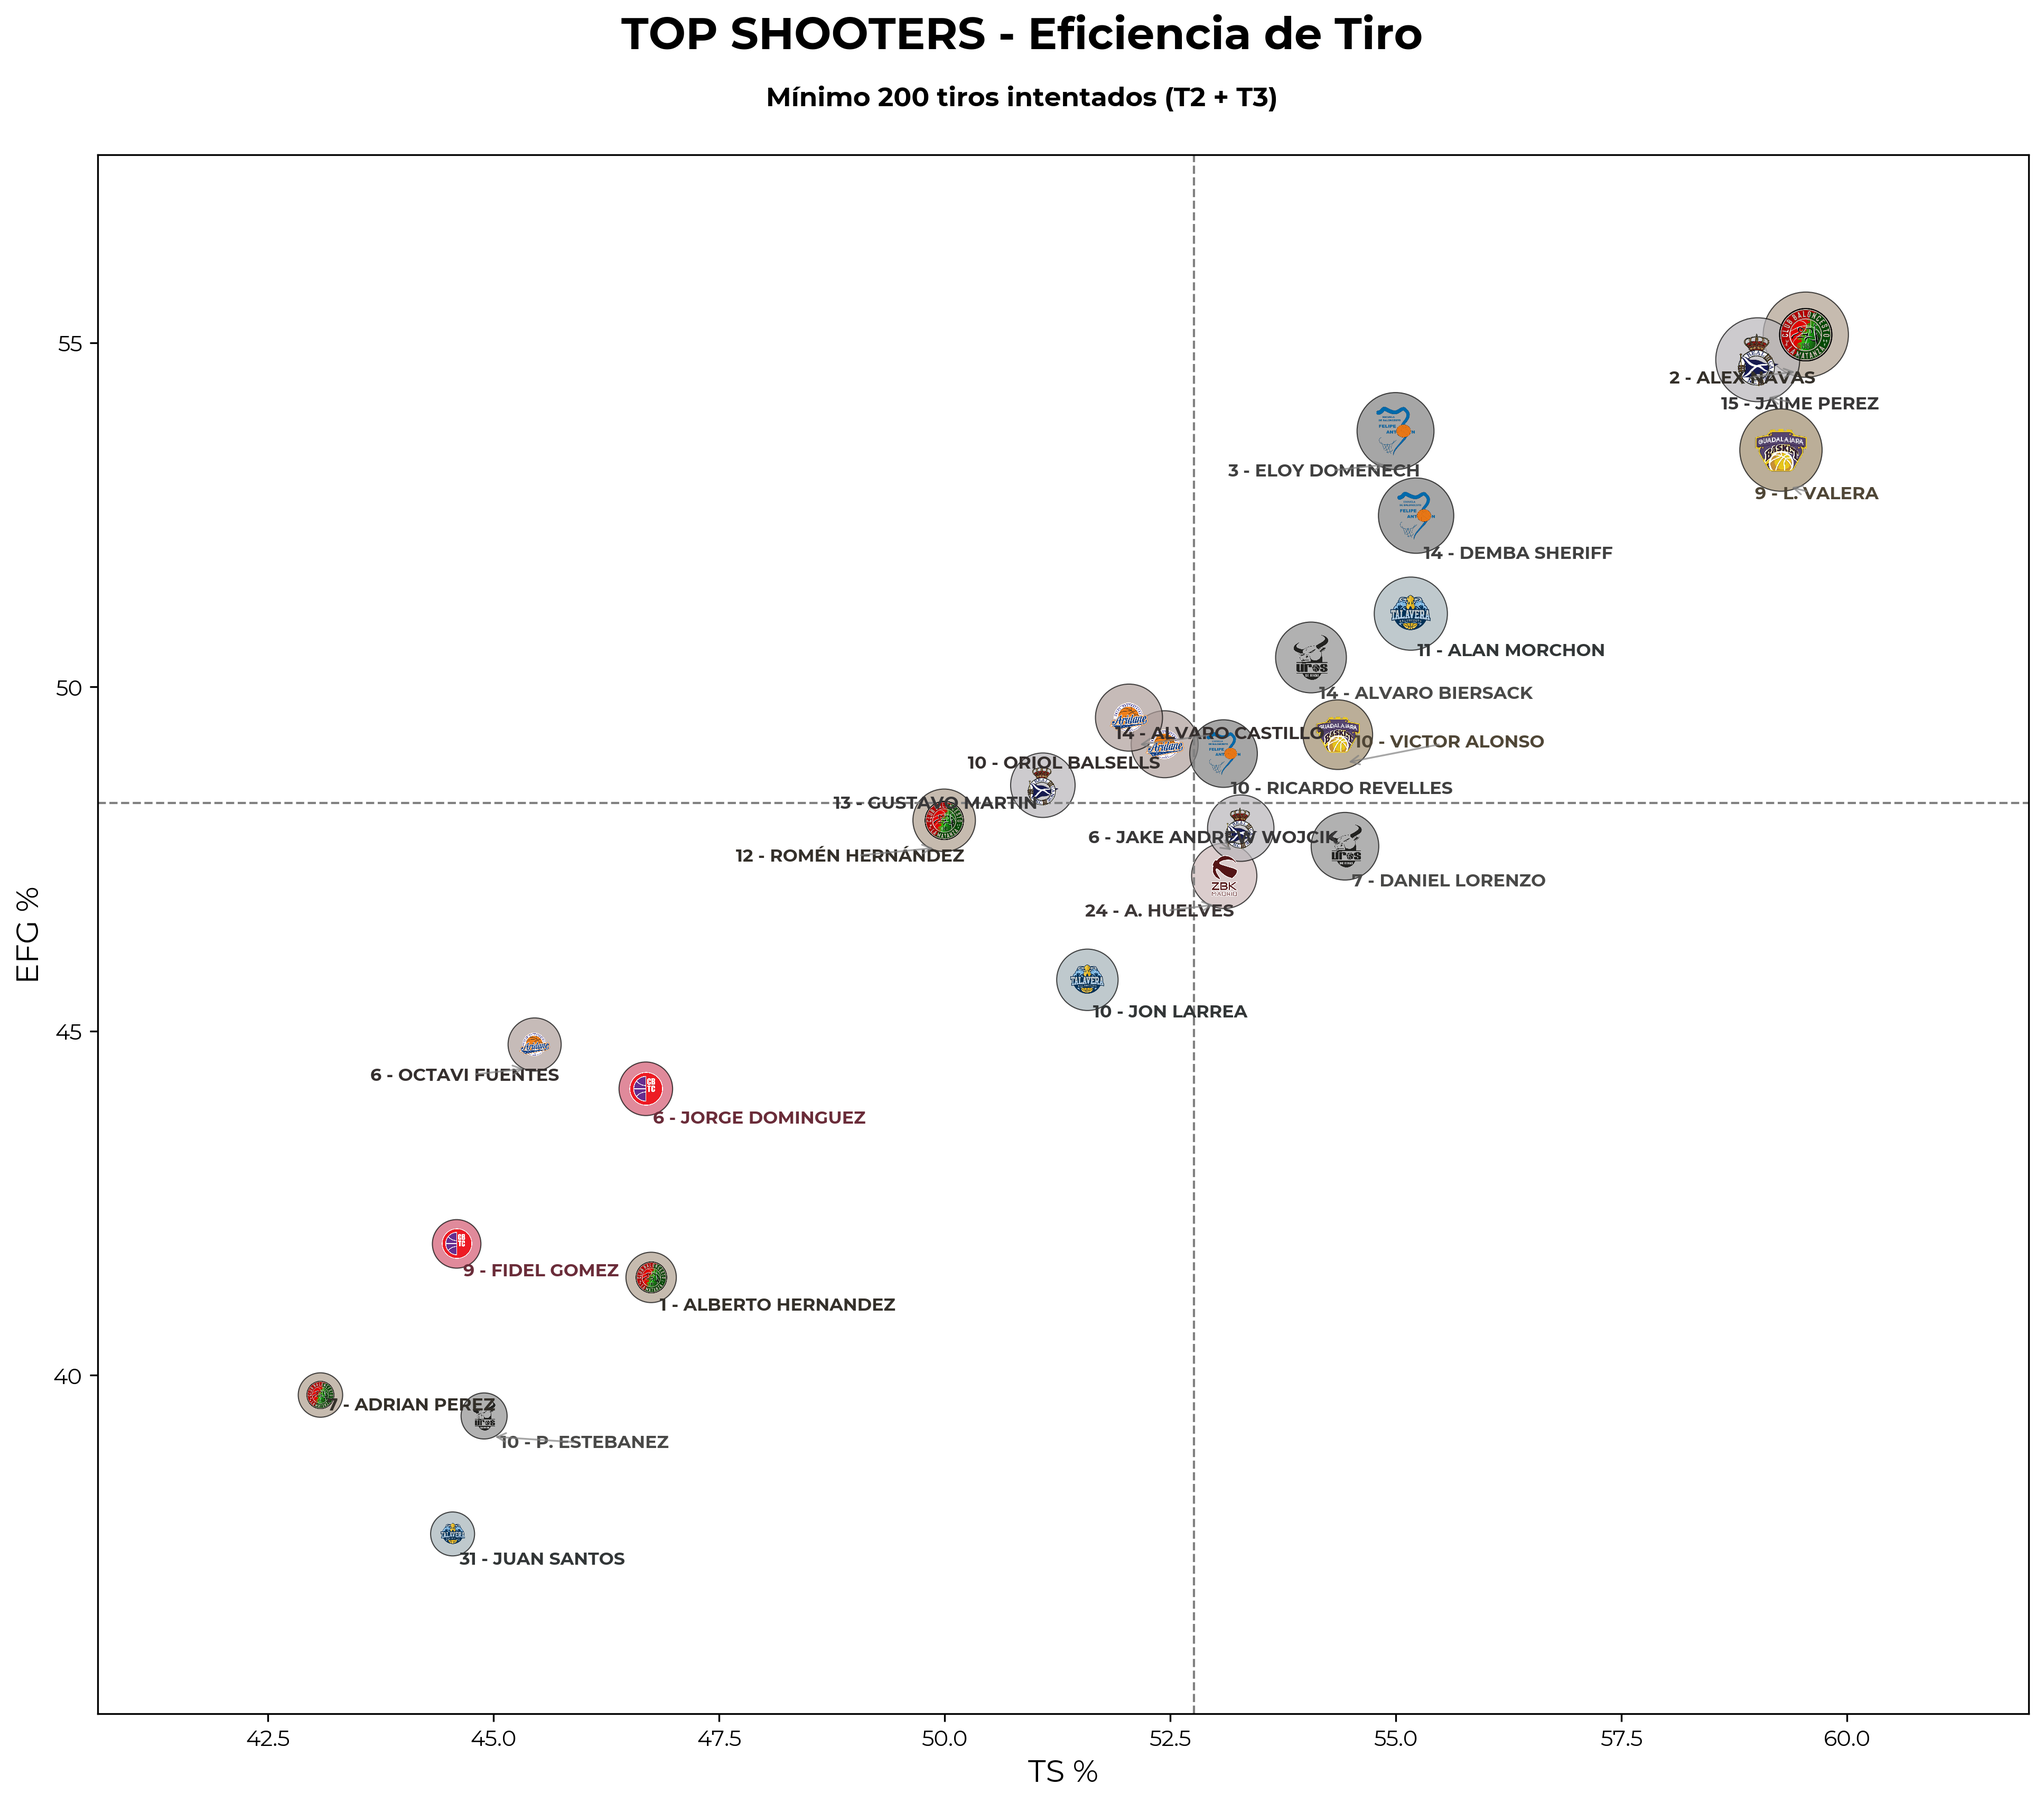
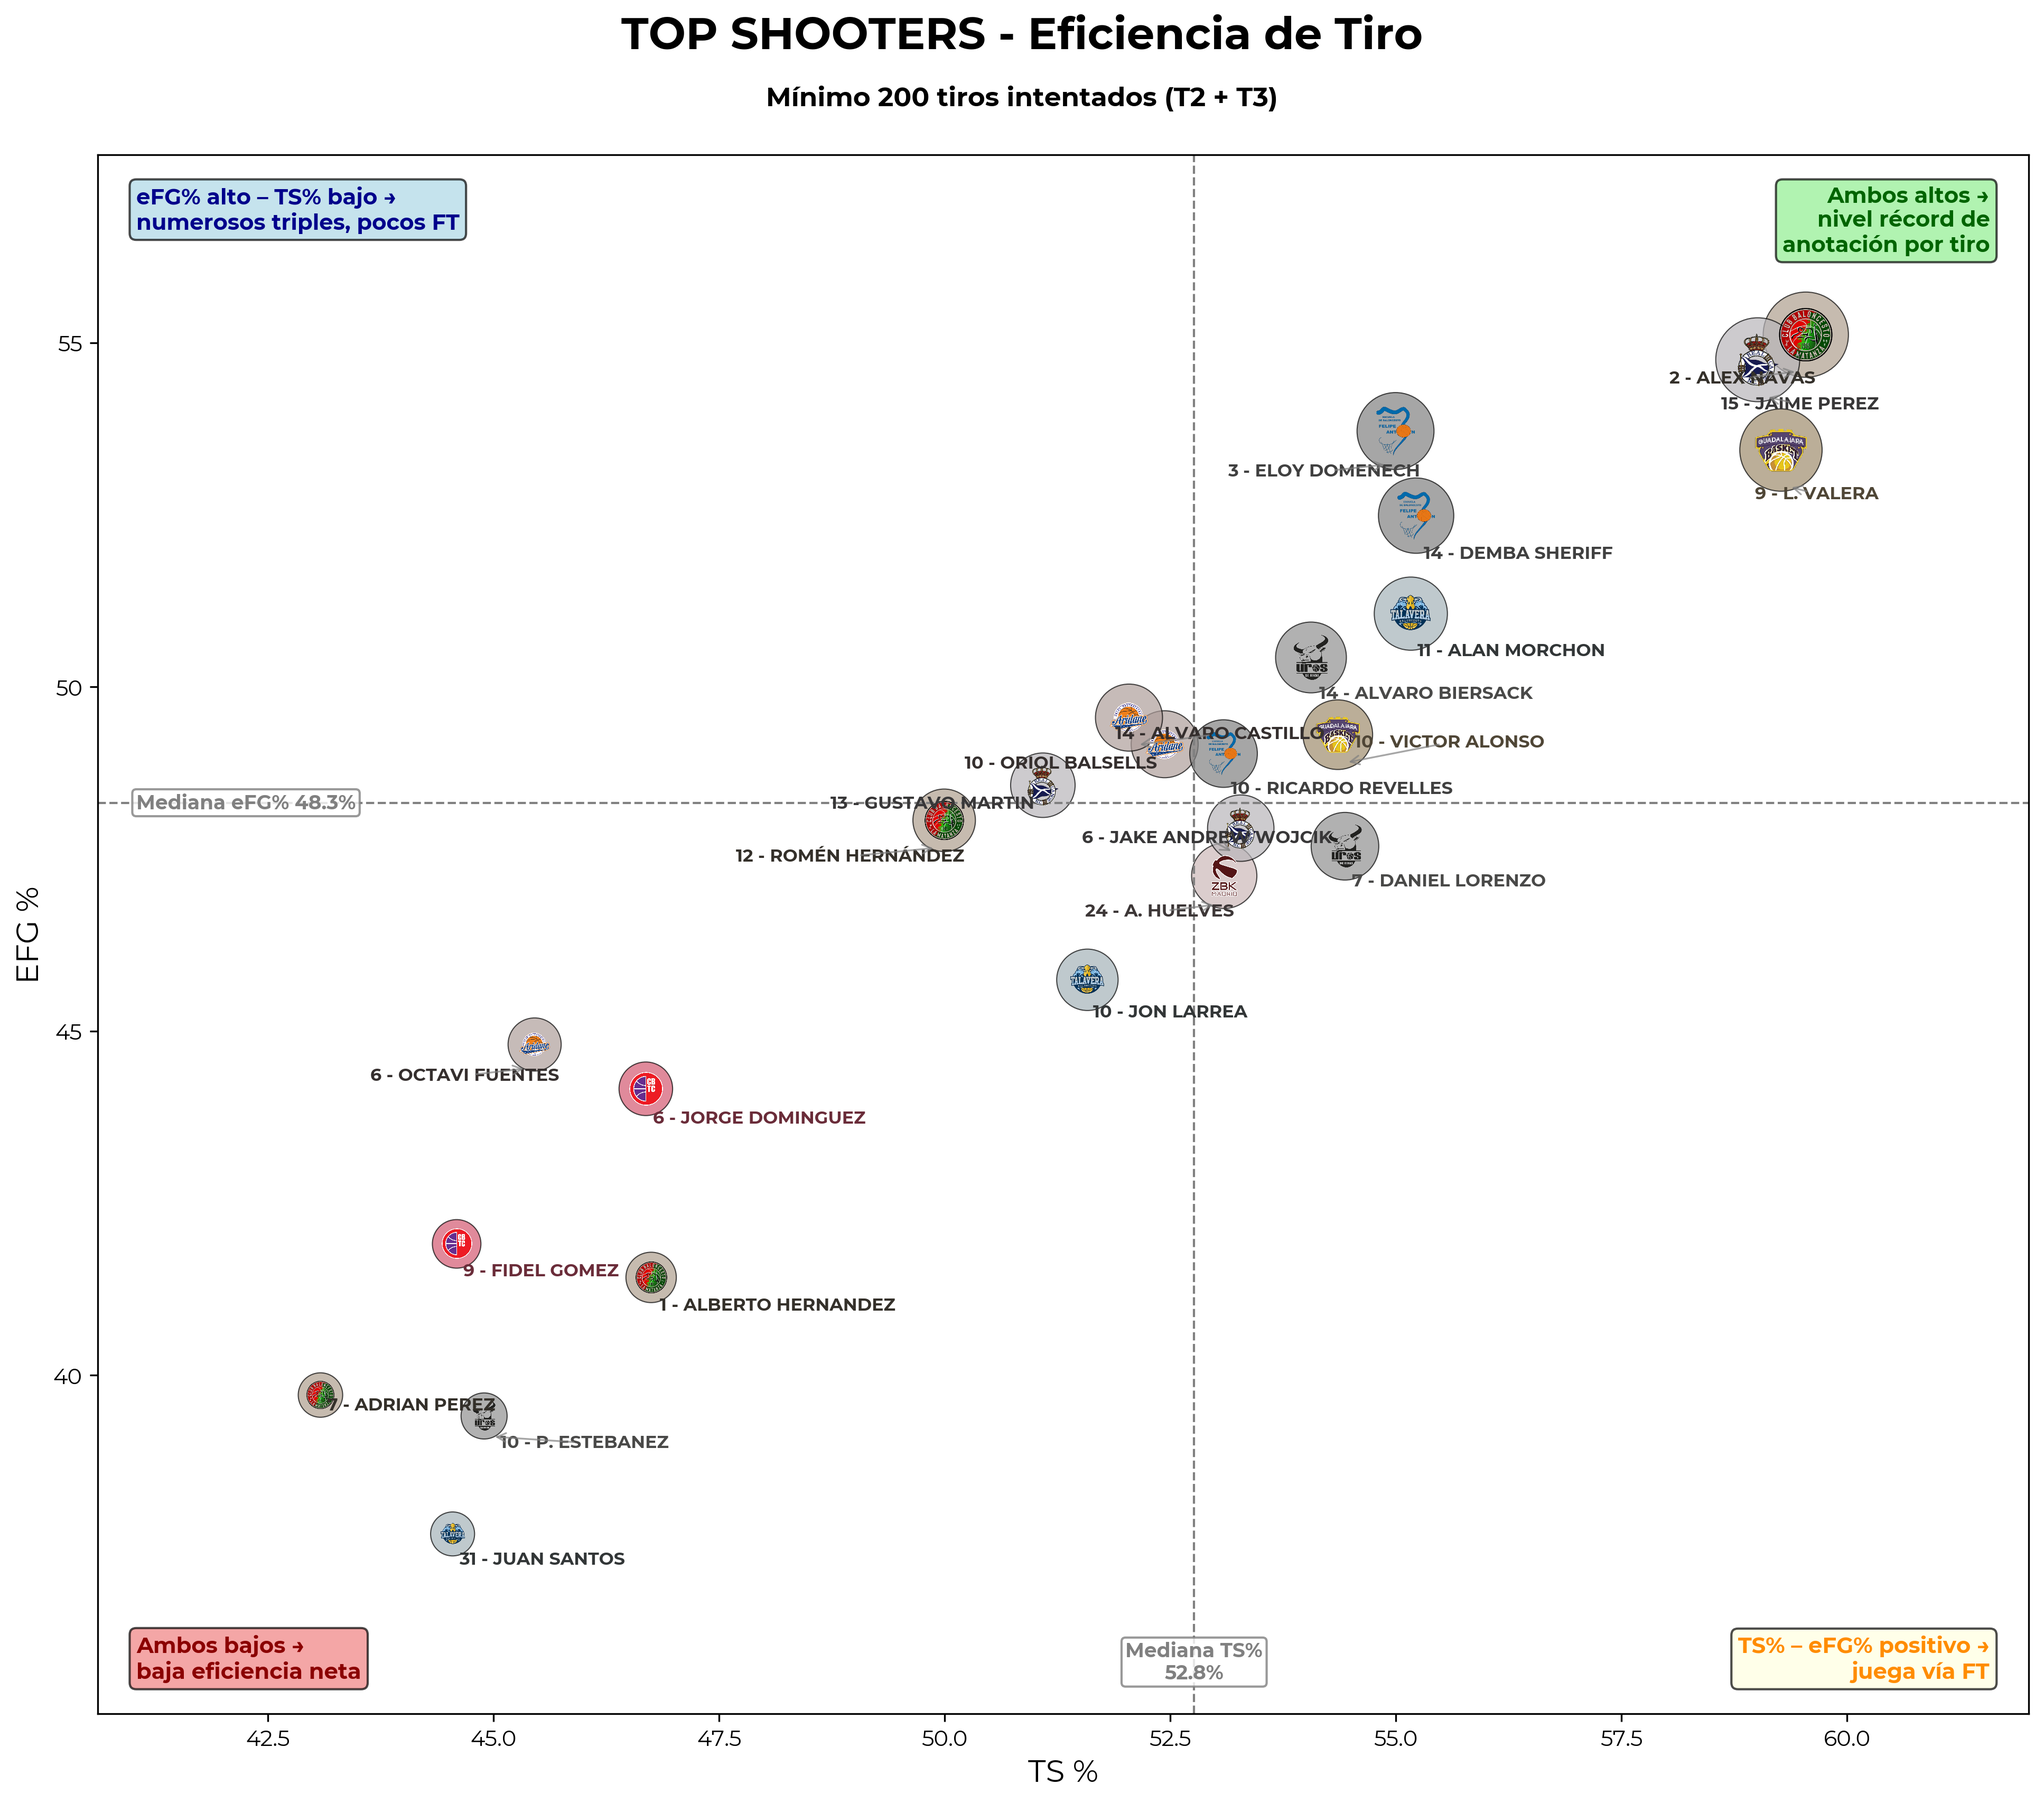
Refactor code structure for improved readability and maintainability

diff --git a/team_report/tools/top20_off_eff.py b/team_report/tools/top20_off_eff.py
@@ -223,6 +223,64 @@ def plot_offensive_efficiency(
     # 11) median lines
     ax.axvline(xm, color='gray', ls='--', lw=1)
     ax.axhline(ym, color='gray', ls='--', lw=1)
+    
+    # 11.0) Add labels for median lines
+    # Get current axis limits after margins are set
+    x_min, x_max = ax.get_xlim()
+    y_min, y_max = ax.get_ylim()
+    
+    # Label for vertical line (Plays median) - positioned near x-axis
+    ax.text(xm, y_min + (y_max - y_min) * 0.02, 
+            f'Mediana Plays\n{xm:.1f}',
+            fontsize=9, fontweight='bold',
+            ha='center', va='bottom',
+            bbox=dict(boxstyle='round,pad=0.2', facecolor='white', alpha=0.8, edgecolor='gray'),
+            color='gray')
+    
+    # Label for horizontal line (PPP median) - positioned on y-axis
+    ax.text(x_min + (x_max - x_min) * 0.02, ym,
+            f'Mediana PPP {ym:.2f}',
+            fontsize=9, fontweight='bold',
+            ha='left', va='center',
+            bbox=dict(boxstyle='round,pad=0.2', facecolor='white', alpha=0.8, edgecolor='gray'),
+            color='gray')
+
+    # 11.1) Add quadrant labels for interpretation
+    # Calculate positions for quadrant labels (with some padding from edges)
+    padding_x = (x_max - x_min) * 0.02
+    padding_y = (y_max - y_min) * 0.02
+    
+    # Bottom-left quadrant (Low Plays, Low PPP)
+    ax.text(x_min + padding_x, y_min + padding_y, 
+            'Poco volumen y\nbaja eficiencia;\nimpacto mínimo\nen el juego',
+            fontsize=10, fontweight='bold', 
+            ha='left', va='bottom',
+            bbox=dict(boxstyle='round,pad=0.3', facecolor='lightcoral', alpha=0.7),
+            color='darkred')
+    
+    # Bottom-right quadrant (High Plays, Low PPP)
+    ax.text(x_max - padding_x, y_min + padding_y,
+            'Mucho volumen con\nbaja eficiencia;\no termina de rendir',
+            fontsize=10, fontweight='bold',
+            ha='right', va='bottom',
+            bbox=dict(boxstyle='round,pad=0.3', facecolor='lightyellow', alpha=0.7),
+            color='darkorange')
+    
+    # Top-left quadrant (Low Plays, High PPP)
+    ax.text(x_min + padding_x, y_max - padding_y,
+            'Muy eficiente,\npero poco usado;\noportunidad de\naumentar su\nprotagonismo',
+            fontsize=10, fontweight='bold',
+            ha='left', va='top',
+            bbox=dict(boxstyle='round,pad=0.3', facecolor='lightblue', alpha=0.7),
+            color='darkblue')
+    
+    # Top-right quadrant (High Plays, High PPP)
+    ax.text(x_max - padding_x, y_max - padding_y,
+            'Alta eficiencia\ny mucho volumen;\nel motor ofensivo\ndel equipo',
+            fontsize=10, fontweight='bold',
+            ha='right', va='top',
+            bbox=dict(boxstyle='round,pad=0.3', facecolor='lightgreen', alpha=0.7),
+            color='darkgreen')
 
     # 12) labels & title
     ax.set_xlabel('Plays', fontsize=14)

diff --git a/team_report/tools/top_shooters.py b/team_report/tools/top_shooters.py
@@ -224,6 +224,64 @@ def plot_top_shooters(
     # 11) median lines
     ax.axvline(xm, color='gray', ls='--', lw=1)
     ax.axhline(ym, color='gray', ls='--', lw=1)
+    
+    # 11.0) Add labels for median lines
+    # Get current axis limits after margins are set
+    x_min, x_max = ax.get_xlim()
+    y_min, y_max = ax.get_ylim()
+    
+    # Label for vertical line (TS% median) - positioned near x-axis
+    ax.text(xm, y_min + (y_max - y_min) * 0.02, 
+            f'Mediana TS%\n{xm:.1f}%',
+            fontsize=9, fontweight='bold',
+            ha='center', va='bottom',
+            bbox=dict(boxstyle='round,pad=0.2', facecolor='white', alpha=0.8, edgecolor='gray'),
+            color='gray')
+    
+    # Label for horizontal line (eFG% median) - positioned on y-axis
+    ax.text(x_min + (x_max - x_min) * 0.02, ym,
+            f'Mediana eFG% {ym:.1f}%',
+            fontsize=9, fontweight='bold',
+            ha='left', va='center',
+            bbox=dict(boxstyle='round,pad=0.2', facecolor='white', alpha=0.8, edgecolor='gray'),
+            color='gray')
+
+    # 11.1) Add quadrant labels for interpretation
+    # Calculate positions for quadrant labels (with some padding from edges)
+    padding_x = (x_max - x_min) * 0.02
+    padding_y = (y_max - y_min) * 0.02
+    
+    # Bottom-left quadrant (Low TS%, Low eFG%)
+    ax.text(x_min + padding_x, y_min + padding_y, 
+            'Ambos bajos →\nbaja eficiencia neta',
+            fontsize=10, fontweight='bold', 
+            ha='left', va='bottom',
+            bbox=dict(boxstyle='round,pad=0.3', facecolor='lightcoral', alpha=0.7),
+            color='darkred')
+    
+    # Bottom-right quadrant (High TS%, Low eFG%)
+    ax.text(x_max - padding_x, y_min + padding_y,
+            'TS% – eFG% positivo →\njuega vía FT',
+            fontsize=10, fontweight='bold',
+            ha='right', va='bottom',
+            bbox=dict(boxstyle='round,pad=0.3', facecolor='lightyellow', alpha=0.7),
+            color='darkorange')
+    
+    # Top-left quadrant (Low TS%, High eFG%)
+    ax.text(x_min + padding_x, y_max - padding_y,
+            'eFG% alto – TS% bajo →\nnumerosos triples, pocos FT',
+            fontsize=10, fontweight='bold',
+            ha='left', va='top',
+            bbox=dict(boxstyle='round,pad=0.3', facecolor='lightblue', alpha=0.7),
+            color='darkblue')
+    
+    # Top-right quadrant (High TS%, High eFG%)
+    ax.text(x_max - padding_x, y_max - padding_y,
+            'Ambos altos →\nnivel récord de\nanotación por tiro',
+            fontsize=10, fontweight='bold',
+            ha='right', va='top',
+            bbox=dict(boxstyle='round,pad=0.3', facecolor='lightgreen', alpha=0.7),
+            color='darkgreen')
 
     # 12) labels & title
     ax.set_xlabel('TS %', fontsize=14)
